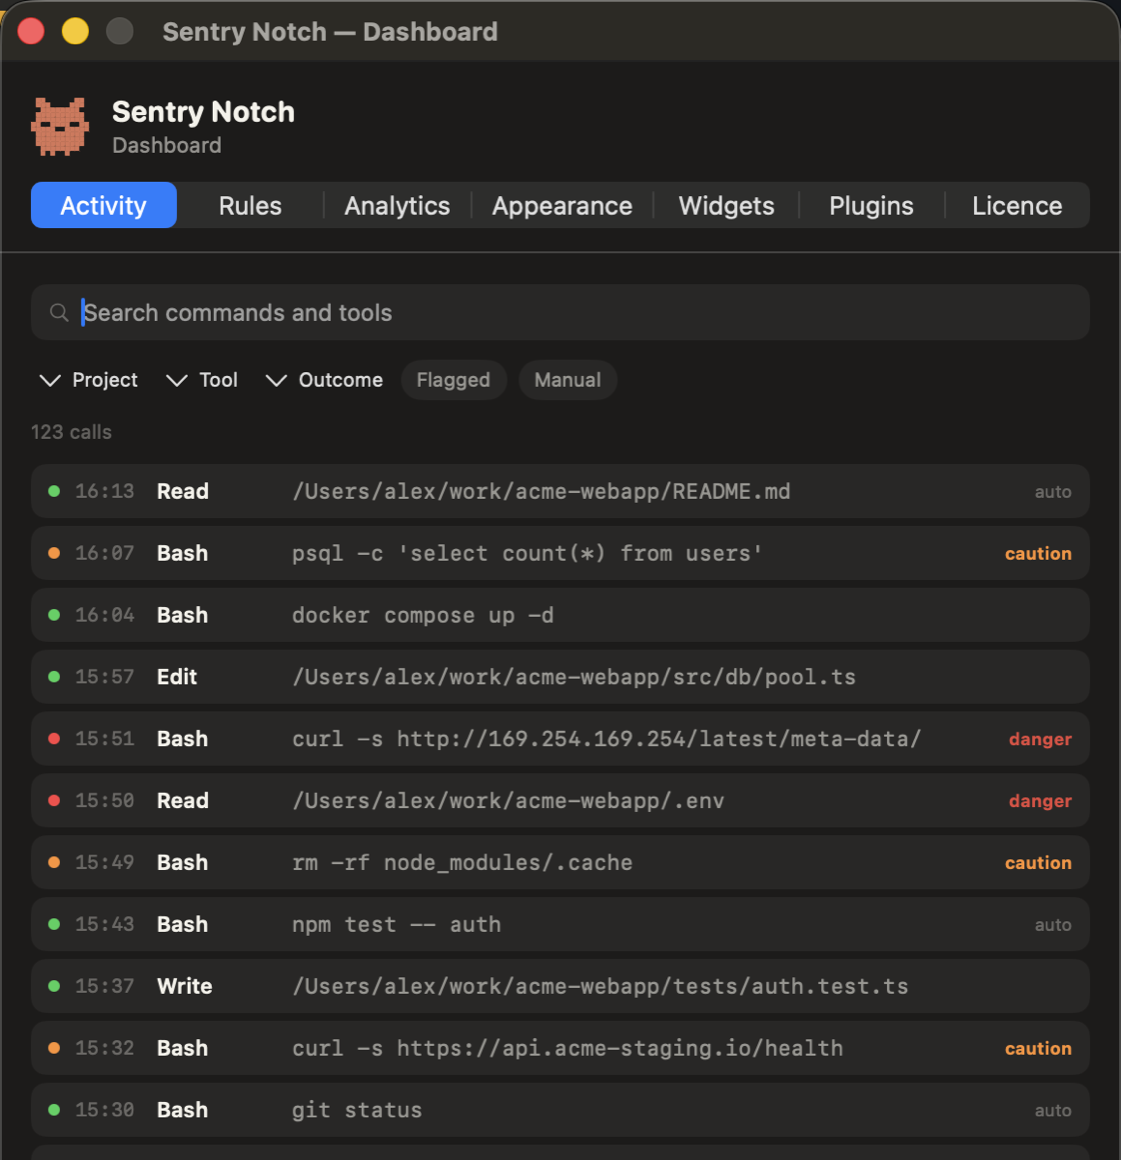
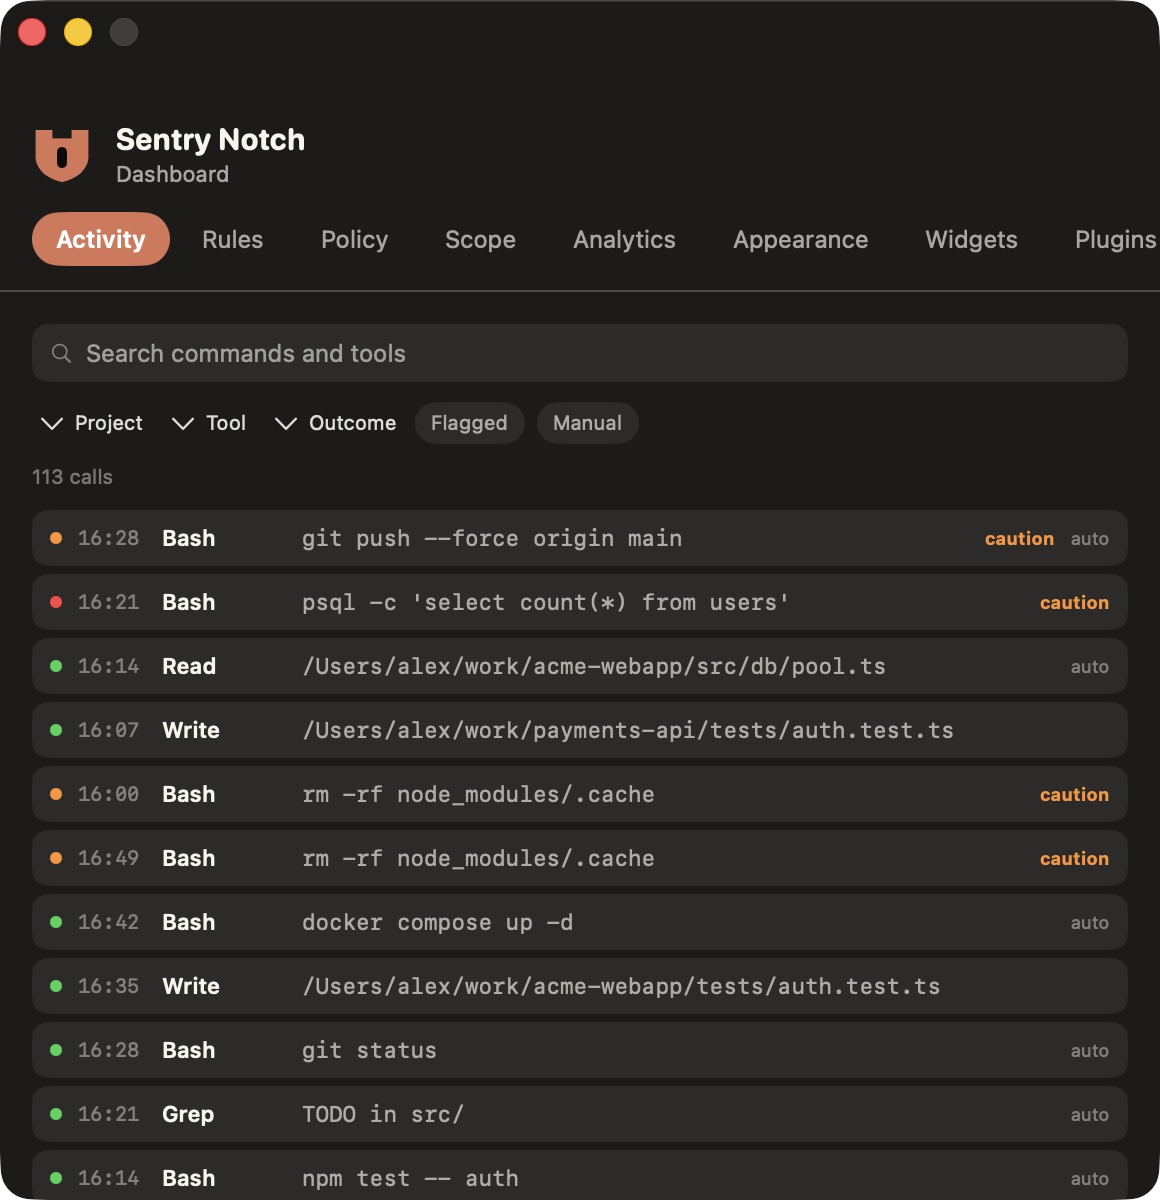
Refresh gallery screenshots + add a reproducible capture harness
The gallery predated every recent change (blue tabs, owl-in-header, the
broken 14-day chart). Regenerated the dashboard shots against seeded demo
data — now showing the shield logo, coral tabs, the fixed chart, and the
new Policy tab. README gallery features Policy.

New tooling so the gallery is reproducible, never shot against real
sessions (Brand.swift forbids that): tools/demo-seed.sh writes synthetic
decisions/rules/tokens/policy into a throwaway state dir, and
tools/screenshot.sh launches a separate demo instance (own state dir +
socket) per tab and captures exactly its window via `screencapture -l`.
Enabled by a new SENTRYNOTCH_DASHBOARD dev flag that opens the dashboard
and prints its window number, matching the existing _EXPAND/_TAB aids.

Claude-Session: https://claude.ai/code/session_015F2bH8wrybgPex56HM242b

diff --git a/Sources/SentryNotch/NotchController.swift b/Sources/SentryNotch/NotchController.swift
@@ -187,6 +187,19 @@ final class NotchController: NSObject {
             }
         }
 
+        // Screenshot aid: open the dashboard (on the tab from SENTRYNOTCH_TAB)
+        // and print its window number so the capture harness can grab exactly
+        // this window with `screencapture -l`.
+        if ProcessInfo.processInfo.environment["\(Brand.slug.uppercased())_DASHBOARD"] == "1" {
+            DispatchQueue.main.asyncAfter(deadline: .now() + 0.6) { [weak self] in
+                self?.dashboard.show()
+                if let n = self?.dashboard.windowNumber {
+                    print("DASHBOARD_WINDOW \(n)")
+                    fflush(stdout)
+                }
+            }
+        }
+
         // When a popover closes, re-evaluate: the pointer may have left the
         // panel while it was open, so the island should collapse now rather
         // than hang around until the next hover event.

diff --git a/Sources/SentryNotch/Dashboard.swift b/Sources/SentryNotch/Dashboard.swift
@@ -13,6 +13,11 @@ final class DashboardWindowController {
 
     init(model: AppModel) { self.model = model }
 
+    /// CoreGraphics window number of the open dashboard, or nil. Used by the
+    /// screenshot harness (`SENTRYNOTCH_DASHBOARD=1`) to grab exactly this
+    /// window with `screencapture -l`.
+    var windowNumber: Int? { window?.windowNumber }
+
     func show() {
         if let window {
             window.makeKeyAndOrderFront(nil)

diff --git a/README.md b/README.md
@@ -65,11 +65,15 @@ questions that actually matter when you're writing up what an agent did.
 <table>
 <tr>
 <td width="50%"><img src="assets/island.png" alt="The notch island with a pending prompt" /><br/><sub><b>The island</b> — prompts, risk, and live sessions.</sub></td>
-<td width="50%"><img src="assets/rules.png" alt="Always-allow rules" /><br/><sub><b>Rules</b> — the always-allow decisions you've made.</sub></td>
+<td width="50%"><img src="assets/policy.png" alt="The policy engine editor" /><br/><sub><b>Policy</b> — allow / deny / ask rules, checked before auto-allow.</sub></td>
 </tr>
 <tr>
 <td width="50%"><img src="assets/activity.png" alt="Per-session activity feed" /><br/><sub><b>Activity</b> — the decision log, browsable.</sub></td>
 <td width="50%"><img src="assets/analytics.png" alt="Usage analytics" /><br/><sub><b>Analytics</b> — how much, by tool, over time.</sub></td>
+</tr>
+<tr>
+<td width="50%"><img src="assets/rules.png" alt="Always-allow rules" /><br/><sub><b>Rules</b> — the always-allow decisions you've made.</sub></td>
+<td width="50%"></td>
 </tr>
 </table>
 </div>
